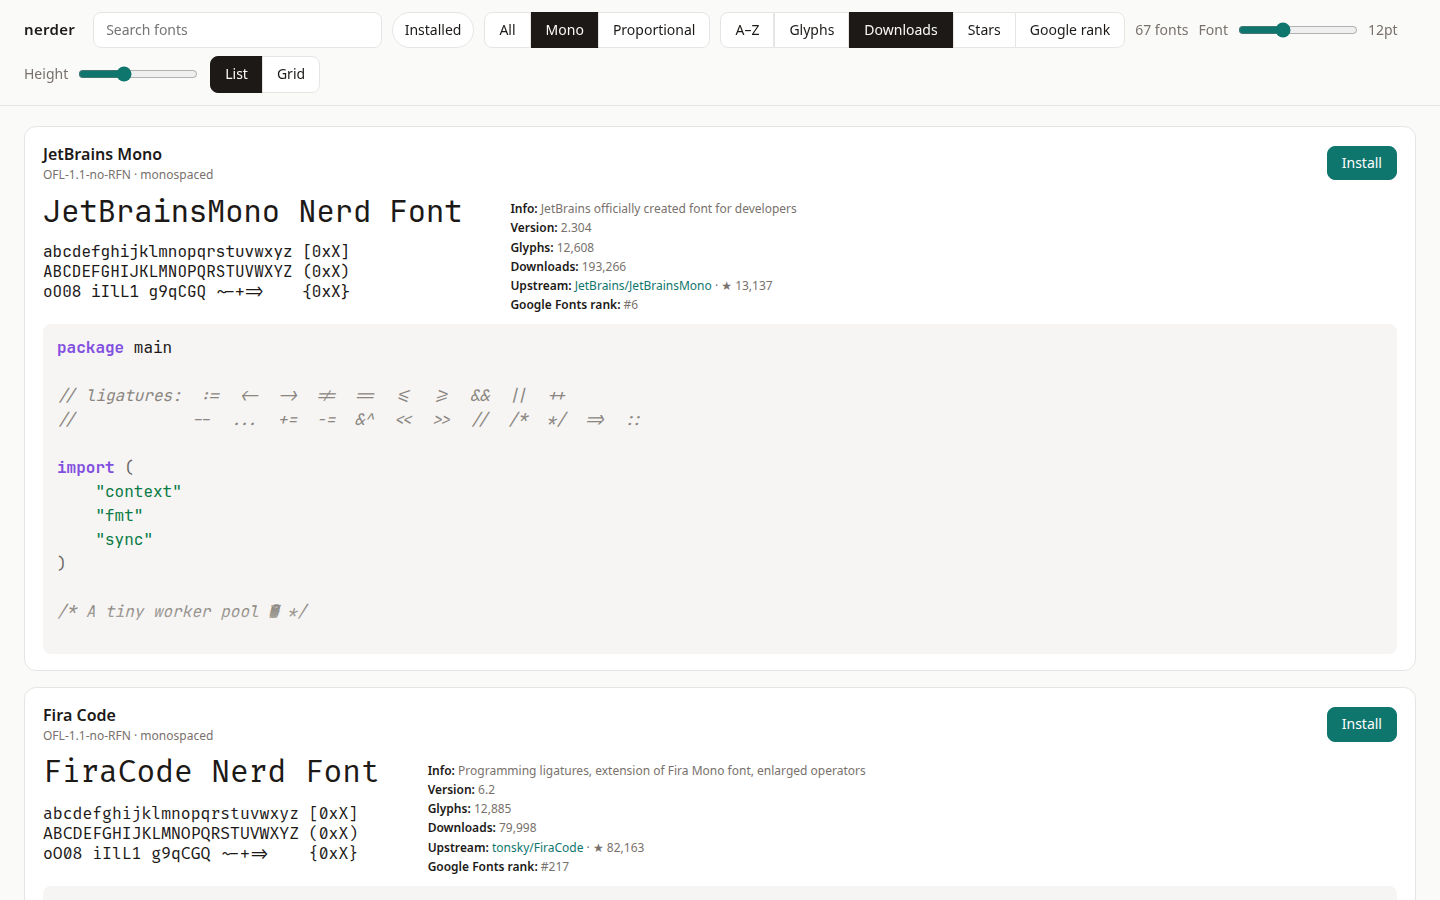
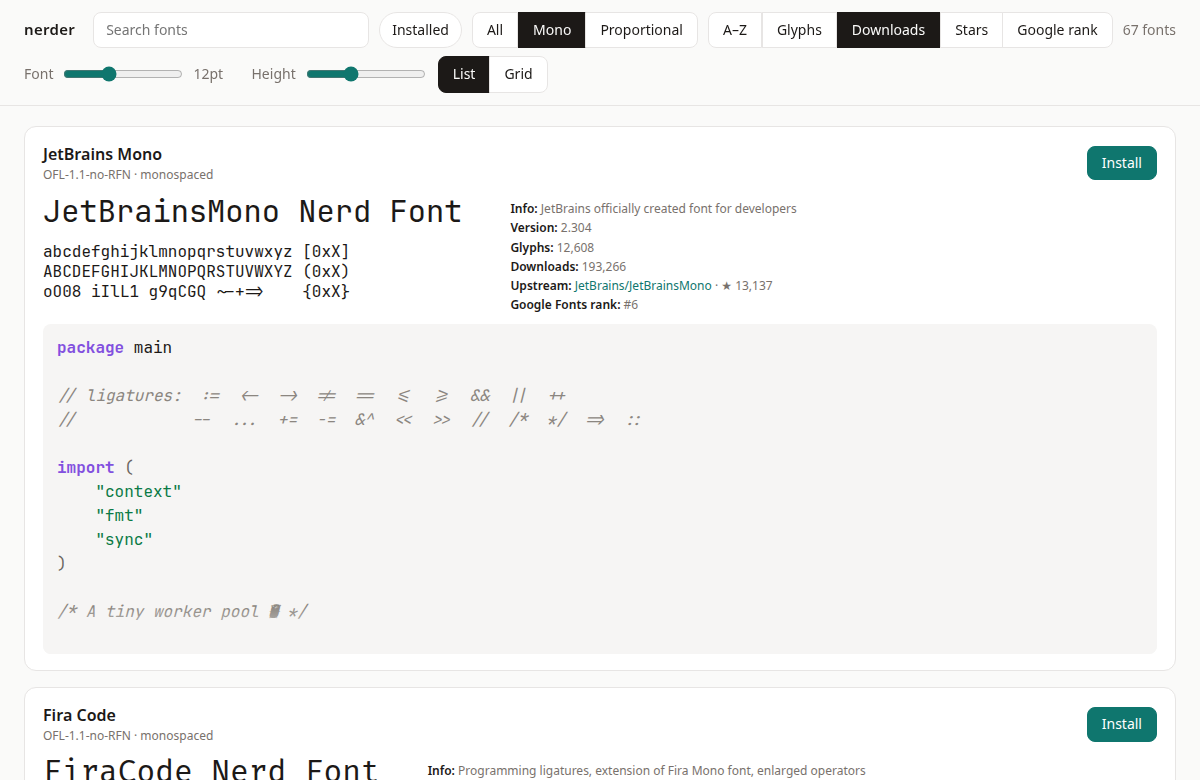
docs: add a feature list, smaller screenshots and a dark-mode one

diff --git a/README.md b/README.md
@@ -12,9 +12,35 @@ click. Some terminals and editors still need a restart to pick up a new font.
 Linux (amd64, arm64) and macOS (Intel and Apple Silicon, 13 or newer). Built with
 Go and [Wails](https://wails.io) v2 (WebKitGTK on Linux, WKWebView on macOS).
 
-![List view: each card shows the font's name and sample in the real font, its facts, and the Go snippet](docs/screenshots/list.png)
+<p>
+  <img src="docs/screenshots/list.png" width="49%" alt="List view in light mode: each card shows the font's name and sample in the real font, its facts, and the Go snippet">
+  <img src="docs/screenshots/grid-dark.png" width="49%" alt="Grid view in dark mode with the same cards side by side">
+</p>
 
-![Grid view with the same cards side by side](docs/screenshots/grid.png)
+## Features
+
+- **Every Nerd Fonts family, in its real font.** All 72 families (release v3.5.1)
+  are rendered on a syntax-coloured Go sample that exercises most of the language,
+  with a ligature line and Nerd Font glyphs. Fonts download on demand, when a card
+  scrolls into view, and are cached on disk.
+- **One-click install and uninstall.** Installs go to the user fonts folder and the
+  font is made available immediately; an *Installed* badge marks what you have, and
+  fonts installed some other way (including system ones) are detected.
+- **A specimen block like nerdfonts.com's.** The font's title and sample characters
+  set in the font, plus its description, version and the original or reserved font name.
+- **More facts per font.** Glyph count, release downloads, the upstream project's link
+  and GitHub stars, and the Google Fonts popularity rank where Google hosts the font.
+- **Find fonts fast.** Fuzzy search, an installed-only filter and an
+  All / Mono / Proportional filter (Mono by default).
+- **Sort by** A–Z, glyph count, downloads, upstream stars or Google Fonts rank.
+- **List and Grid layouts.** List previews flow into text columns to use wide windows.
+  Sliders set the code font size (in points, as terminals and editors do), the grid
+  card width and the list preview height.
+- **Remembers your setup.** Layout, sizes, and the window's size, position and
+  maximised state come back on the next launch. Light and dark follow the system.
+- **Linux and macOS.** Linux amd64 and arm64, macOS on Intel and Apple Silicon, built
+  by GitHub Actions. Popularity numbers are a snapshot embedded in the app and
+  refreshed with `just snapshot`.
 
 ## Using it
 
